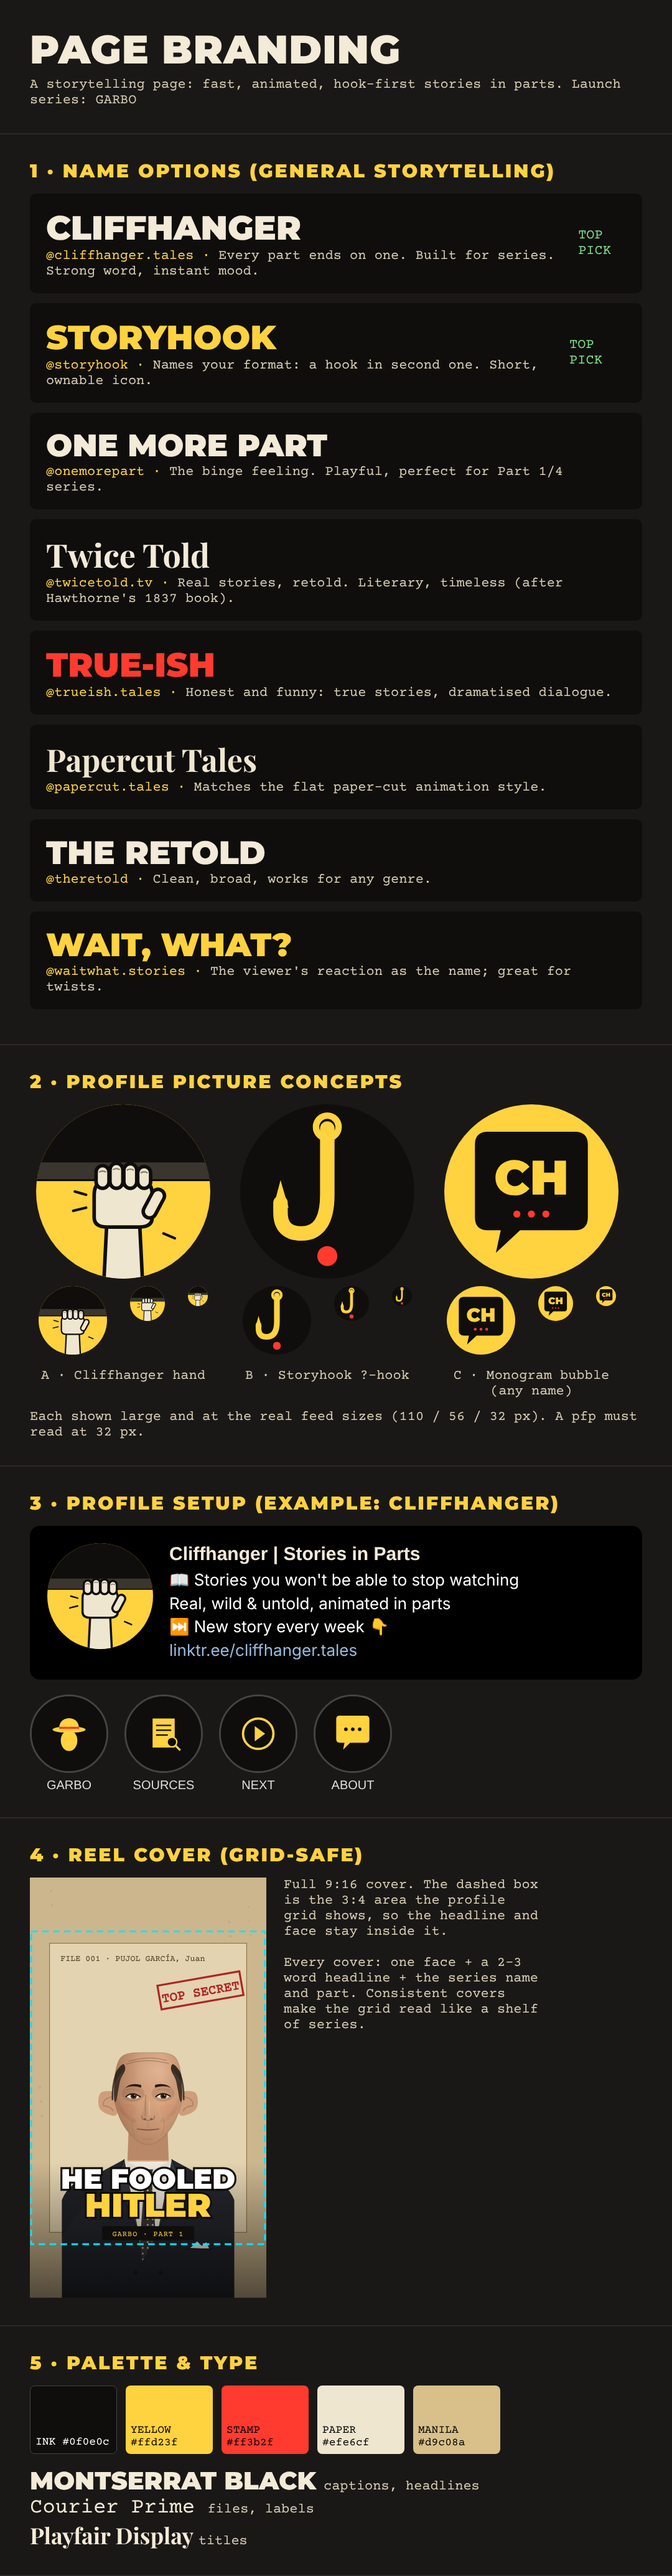
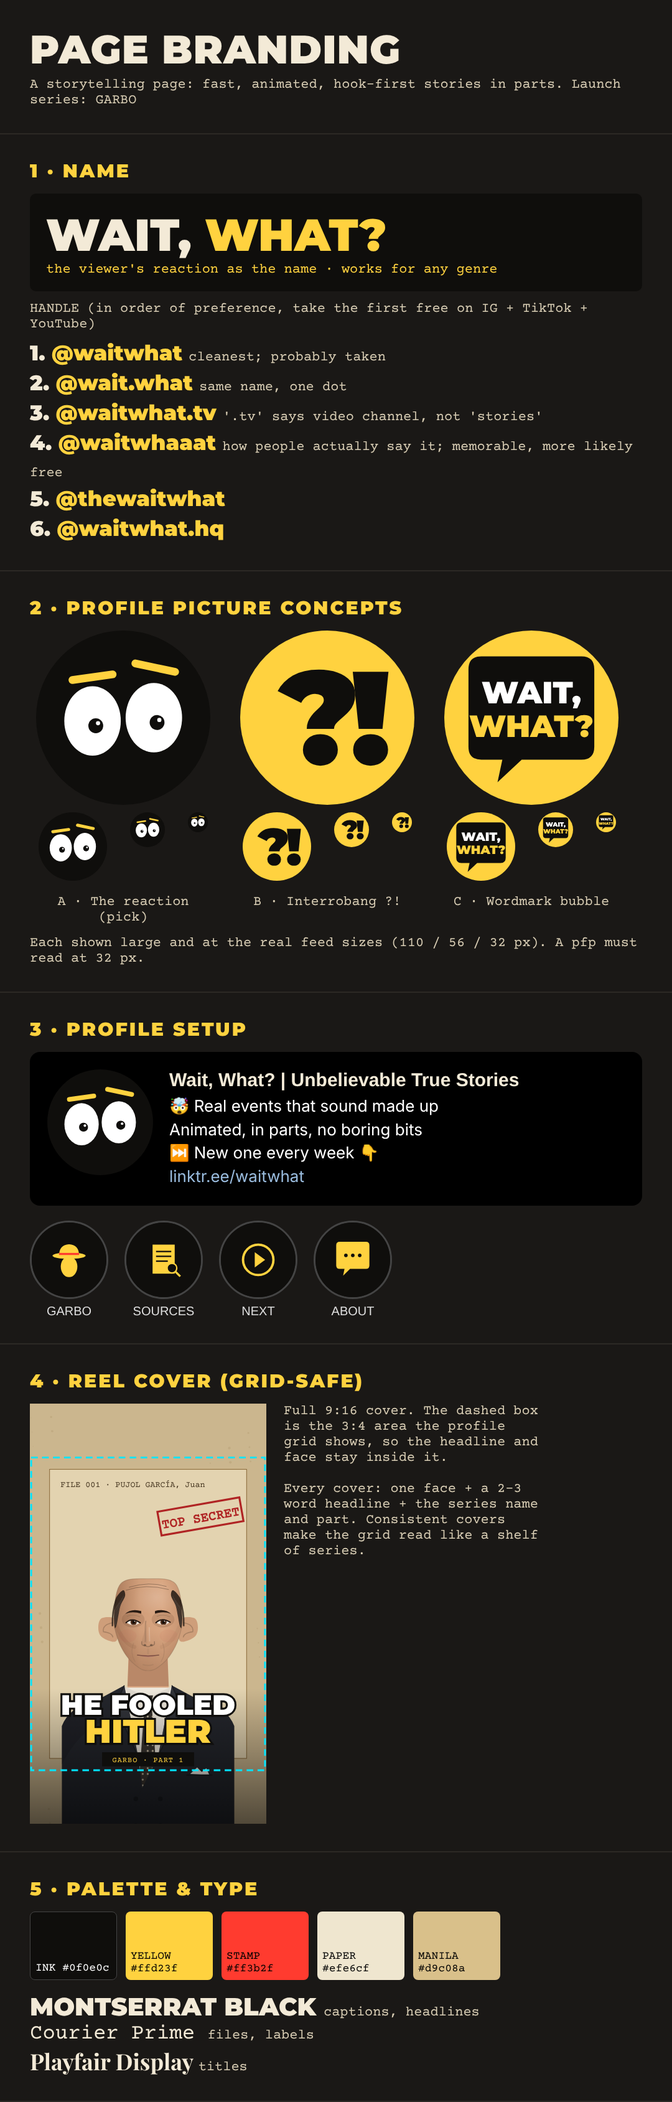
Branding v3: WAIT, WHAT?
- Handle options without 'stories' (@waitwhat, @wait.what, @waitwhat.tv,
  @waitwhaaat, @thewaitwhat, @waitwhat.hq)
- New pfp concepts built on the name: reaction eyes (pick), interrobang,
  wordmark bubble; bio and setup guide updated

Claude-Session: https://claude.ai/code/session_017ZvJXmgtdFrWXH2ng3gpYF

diff --git a/brand/board.html b/brand/board.html
@@ -20,24 +20,24 @@ h1{font:900 64px Montserrat;margin:0 0 6px;letter-spacing:1px} h2{font:900 30px 
 </style></head><body>
 <div class="sec"><h1>PAGE BRANDING</h1><div class="cap">A storytelling page: fast, animated, hook-first stories in parts. Launch series: GARBO</div></div>
 
-<div class="sec"><h2>1 · NAME OPTIONS (GENERAL STORYTELLING)</h2>
- <div class="name"><div><div style="font:900 54px Montserrat">CLIFFHANGER</div><div class="tag">@cliffhanger.tales · <span style="color:#d8cdb4">Every part ends on one. Built for series. Strong word, instant mood.</span></div></div><div class=tag style=color:#7ee08a>TOP PICK</div></div>
- <div class="name"><div><div style="font:900 54px Montserrat;color:var(--yellow)">STORYHOOK</div><div class="tag">@storyhook · <span style="color:#d8cdb4">Names your format: a hook in second one. Short, ownable icon.</span></div></div><div class=tag style=color:#7ee08a>TOP PICK</div></div>
- <div class="name"><div><div style="font:900 50px Montserrat">ONE MORE PART</div><div class="tag">@onemorepart · <span style="color:#d8cdb4">The binge feeling. Playful, perfect for Part 1/4 series.</span></div></div></div>
- <div class="name"><div><div style="font:700 52px 'Playfair Display'">Twice Told</div><div class="tag">@twicetold.tv · <span style="color:#d8cdb4">Real stories, retold. Literary, timeless (after Hawthorne's 1837 book).</span></div></div></div>
- <div class="name"><div><div style="font:900 54px Montserrat;color:var(--red)">TRUE-ISH</div><div class="tag">@trueish.tales · <span style="color:#d8cdb4">Honest and funny: true stories, dramatised dialogue.</span></div></div></div>
- <div class="name"><div><div style="font:700 50px 'Playfair Display';color:var(--paper)">Papercut Tales</div><div class="tag">@papercut.tales · <span style="color:#d8cdb4">Matches the flat paper-cut animation style.</span></div></div></div>
- <div class="name"><div><div style="font:900 52px Montserrat">THE RETOLD</div><div class="tag">@theretold · <span style="color:#d8cdb4">Clean, broad, works for any genre.</span></div></div></div>
- <div class="name"><div><div style="font:900 52px Montserrat;color:var(--yellow)">WAIT, WHAT?</div><div class="tag">@waitwhat.stories · <span style="color:#d8cdb4">The viewer's reaction as the name; great for twists.</span></div></div></div>
+<div class="sec"><h2>1 · NAME</h2>
+ <div class="name"><div><div style="font:900 72px Montserrat">WAIT, <span style="color:var(--yellow)">WHAT?</span></div><div class="tag">the viewer's reaction as the name · works for any genre</div></div></div>
+ <div class="cap" style="margin:10px 0 12px">HANDLE (in order of preference, take the first free on IG + TikTok + YouTube)</div>
+ <div style="font:900 34px Montserrat;margin:6px 0">1. <span style="color:var(--yellow)">@waitwhat</span> <span class="cap">cleanest; probably taken</span></div>
+ <div style="font:900 34px Montserrat;margin:6px 0">2. <span style="color:var(--yellow)">@wait.what</span> <span class="cap">same name, one dot</span></div>
+ <div style="font:900 34px Montserrat;margin:6px 0">3. <span style="color:var(--yellow)">@waitwhat.tv</span> <span class="cap">'.tv' says video channel, not 'stories'</span></div>
+ <div style="font:900 34px Montserrat;margin:6px 0">4. <span style="color:var(--yellow)">@waitwhaaat</span> <span class="cap">how people actually say it; memorable, more likely free</span></div>
+ <div style="font:900 34px Montserrat;margin:6px 0">5. <span style="color:var(--yellow)">@thewaitwhat</span> <span class="cap"></span></div>
+ <div style="font:900 34px Montserrat;margin:6px 0">6. <span style="color:var(--yellow)">@waitwhat.hq</span> <span class="cap"></span></div>
 </div>
 
 <div class="sec"><h2>2 · PROFILE PICTURE CONCEPTS</h2><div class="row" id="pfps"></div>
  <div class="cap" style="margin-top:16px">Each shown large and at the real feed sizes (110 / 56 / 32 px). A pfp must read at 32 px.</div></div>
 
-<div class="sec"><h2>3 · PROFILE SETUP (EXAMPLE: CLIFFHANGER)</h2>
+<div class="sec"><h2>3 · PROFILE SETUP</h2>
  <div class="profile"><div id="pfpMini"></div><div>
-  <div style="font:700 30px Arial;margin-bottom:6px">Cliffhanger | Stories in Parts</div>
-  <div class="bio">📖 Stories you won't be able to stop watching<br>Real, wild &amp; untold, animated in parts<br>⏭ New story every week 👇<br><span style="color:#9bd">linktr.ee/cliffhanger.tales</span></div>
+  <div style="font:700 30px Arial;margin-bottom:6px">Wait, What? | Unbelievable True Stories</div>
+  <div class="bio">🤯 Real events that sound made up<br>Animated, in parts, no boring bits<br>⏭ New one every week 👇<br><span style="color:#9bd">linktr.ee/waitwhat</span></div>
  </div></div>
  <div class="hl" style="margin-top:24px" id="hls"></div>
 </div>

diff --git a/brand/brand.js b/brand/brand.js
@@ -47,6 +47,35 @@
     return svg(1080, 1080, g, size);
   }
 
+
+  // ---- WAIT, WHAT? concepts ----
+  // A · interrobang: the name as one glyph
+  function pfpInterrobang(size) {
+    let g = `<rect width="1080" height="1080" fill="${Y}"/>`;
+    g += `<text x="560" y="830" text-anchor="middle" font-family="Montserrat" font-weight="900" font-size="820" fill="${INK}" letter-spacing="-60">?!</text>`;
+    g += `<circle cx="760" cy="300" r="0" fill="${RED}"/>`;
+    return svg(1080, 1080, g, size);
+  }
+  // B · the reaction: two wide eyes with tiny pupils and a raised brow
+  function pfpEyes(size) {
+    let g = `<rect width="1080" height="1080" fill="${INK}"/>`;
+    for (const [cx, dy, rot] of [[350, 0, -8], [730, -20, 12]]) {
+      g += `<ellipse cx="${cx}" cy="${560 + dy}" rx="175" ry="215" fill="#fff"/>`;
+      g += `<circle cx="${cx + 20}" cy="${590 + dy}" r="46" fill="${INK}"/>`;
+      g += `<circle cx="${cx + 34}" cy="${574 + dy}" r="13" fill="#fff"/>`;
+      g += `<rect x="${cx - 150}" y="${265 + dy - (cx > 500 ? 40 : 0)}" width="300" height="48" rx="24" fill="${Y}" transform="rotate(${rot} ${cx} ${290 + dy})"/>`;
+    }
+    return svg(1080, 1080, g, size);
+  }
+  // C · wordmark bubble
+  function pfpWordmark(size) {
+    let g = `<rect width="1080" height="1080" fill="${Y}"/>`;
+    g += `<path d="M150,240 Q150,160 230,160 L850,160 Q930,160 930,240 L930,720 Q930,800 850,800 L480,800 L330,940 L360,800 L230,800 Q150,800 150,720Z" fill="${INK}"/>`;
+    g += `<text x="540" y="450" text-anchor="middle" font-family="Montserrat" font-weight="900" font-size="190" fill="#fff">WAIT,</text>`;
+    g += `<text x="540" y="660" text-anchor="middle" font-family="Montserrat" font-weight="900" font-size="190" fill="${Y}">WHAT?</text>`;
+    return svg(1080, 1080, g, size);
+  }
+
   // Highlight covers: yellow icon on ink
   const ICONS = {
     'GARBO': `<ellipse cx="540" cy="640" rx="120" ry="150" fill="${Y}"/><ellipse cx="540" cy="480" rx="240" ry="46" fill="${Y}"/><path d="M395,485 Q395,320 540,315 Q685,320 685,485Z" fill="${Y}"/><rect x="395" y="440" width="290" height="30" fill="${RED}"/>`,
@@ -74,14 +103,14 @@
     return svg(1080, 1920, `<defs><linearGradient id="cv" x1="0" y1="0" x2="0" y2="1"><stop offset="0" stop-color="#000" stop-opacity="0"/><stop offset="1" stop-color="#000" stop-opacity="0.6"/></linearGradient></defs>${g}`, size);
   }
 
-  window.BRAND = { pfpCliff, pfpHook, pfpBubble, highlight, coverPart1, HIGHLIGHTS: Object.keys(ICONS) };
+  window.BRAND = { pfpCliff, pfpHook, pfpBubble, pfpInterrobang, pfpEyes, pfpWordmark, highlight, coverPart1, HIGHLIGHTS: Object.keys(ICONS) };
 
   // ---- fill the board if present ----
   const pf = document.getElementById('pfps');
   if (pf) {
-    const opts = [['A · Cliffhanger hand', pfpCliff], ['B · Storyhook ?-hook', pfpHook], ['C · Monogram bubble (any name)', pfpBubble]];
+    const opts = [['A · The reaction (pick)', pfpEyes], ['B · Interrobang ?!', pfpInterrobang], ['C · Wordmark bubble', pfpWordmark]];
     pf.innerHTML = opts.map(([label, fn]) => `<div class="pfp">${fn(280)}<div class="small">${fn(110)}${fn(56)}${fn(32)}</div><div class="cap">${label}</div></div>`).join('');
-    document.getElementById('pfpMini').innerHTML = pfpCliff(170).replace('<svg', '<svg style="border-radius:50%"');
+    document.getElementById('pfpMini').innerHTML = pfpEyes(170).replace('<svg', '<svg style="border-radius:50%"');
     document.getElementById('hls').innerHTML = BRAND.HIGHLIGHTS.map((n) => `<div>${highlight(n, 120)}${n}</div>`).join('');
     document.getElementById('cover').innerHTML = coverPart1(380, true);
   }

diff --git a/brand/export.js b/brand/export.js
@@ -9,7 +9,7 @@ const { chromium } = require('playwright'); const path = require('path'); const 
   await p.evaluate(() => { const s = document.createElement('script'); s.src = 'brand.js'; document.body.appendChild(s); });
   await p.waitForTimeout(500);
   await p.screenshot({ path: path.join(out, 'brand_board.png'), fullPage: true });
-  const assets = [['pfp_A_cliffhanger', 'BRAND.pfpCliff(1080)', 1080, 1080], ['pfp_B_storyhook', 'BRAND.pfpHook(1080)', 1080, 1080], ['pfp_C_monogram', 'BRAND.pfpBubble(1080)', 1080, 1080],
+  const assets = [['pfp_A_reaction', 'BRAND.pfpEyes(1080)', 1080, 1080], ['pfp_B_interrobang', 'BRAND.pfpInterrobang(1080)', 1080, 1080], ['pfp_C_wordmark', 'BRAND.pfpWordmark(1080)', 1080, 1080],
     ['cover_part1', 'BRAND.coverPart1(1080,false)', 1080, 1920]].concat(
     ['GARBO', 'SOURCES', 'NEXT', 'ABOUT'].map(n => [`highlight_${n.replace(' ', '').toLowerCase()}`, `BRAND.highlight(${JSON.stringify(n)},1080)`, 1080, 1080]));
   for (const [name, expr, w, h] of assets) {

diff --git a/brand/BRANDING.md b/brand/BRANDING.md
@@ -9,60 +9,62 @@ Visual board: `export/brand_board.png`. All assets: `export/`. Regenerate with
 
 ---
 
-## 1. Name
+## 1. Name: WAIT, WHAT?
 
-| Name | Handle idea | Why |
+Chosen. The viewer's reaction is the name: it promises a twist without tying the page to
+any genre or to the word "stories".
+
+**Handle**: take the first one free on Instagram, TikTok and YouTube (same everywhere):
+
+| # | Handle | Note |
 | --- | --- | --- |
-| **CLIFFHANGER** (top pick) | `@cliffhanger.tales` | Every part ends on one; the name *is* the format. A strong word with an instant mood. Icon: a hand gripping a ledge. |
-| **STORYHOOK** (top pick) | `@storyhook` | Names the promise: a hook in second one. Short, ownable; icon: a hook shaped like a "?". |
-| ONE MORE PART | `@onemorepart` | The binge feeling; playful and made for Part 1/4 series. |
-| Twice Told | `@twicetold.tv` | Real stories, retold. Literary and timeless (after Hawthorne's 1837 *Twice-Told Tales*). |
-| TRUE-ISH | `@trueish.tales` | Honest and funny: true stories, dramatised dialogue. |
-| Papercut Tales | `@papercut.tales` | Matches the flat paper-cut animation style. |
-| THE RETOLD | `@theretold` | Clean, broad, any genre. |
-| WAIT, WHAT? | `@waitwhat.stories` | The viewer's reaction as the name; great for twists. |
+| 1 | `@waitwhat` | Cleanest; probably taken |
+| 2 | `@wait.what` | Same name with a dot |
+| 3 | `@waitwhat.tv` | ".tv" signals a video channel, not "stories" |
+| 4 | `@waitwhaaat` | How people actually say it; memorable and more likely free |
+| 5 | `@thewaitwhat` | |
+| 6 | `@waitwhat.hq` | |
 
-No large channel with these exact names showed up in a web search, but handle availability
-must be checked directly on Instagram, TikTok and YouTube. Grab the same handle on all three.
+All six are valid on all three platforms (letters, dots, underscores; 30 characters max).
+Availability must be checked by hand.
 
 ## 2. Profile picture
 
-| Concept | Read at 32 px | Fits |
+| Concept | Read at 32 px | Notes |
 | --- | --- | --- |
-| A · Cliffhanger hand | Yes: cream hand gripping a black ledge on yellow | CLIFFHANGER, ONE MORE PART |
-| B · Storyhook ?-hook | Yes: yellow hook + red dot on ink | STORYHOOK, WAIT, WHAT? |
-| C · Monogram bubble | Yes: initials in a speech bubble with "…" | Any name (swap the letters) |
+| **A · The reaction** (pick) | Yes | Two wide eyes, tiny pupils, raised yellow brows on ink. A face is recognised fastest in a feed, and it *is* the "wait, what?" feeling. Can be animated as a 0.5 s blink sting at the end of every reel. |
+| B · Interrobang ?! | Yes | Pure type, very bold on yellow. |
+| C · Wordmark bubble | Borderline | The full name in a speech bubble; best for the YouTube banner. |
 
-All three use the video palette (ink, yellow, stamp red), so the page and the reels look
-like one brand.
+Files: `export/pfp_A_reaction.png` (1080×1080). Same palette as the video captions.
 
 ## 3. Bio
 
-**Instagram** (≤150 characters), example for CLIFFHANGER:
+**Instagram** (≤150 characters):
 
 ```
-📖 Stories you won't be able to stop watching
-Real, wild & untold, animated in parts
-⏭ New story every week 👇
+🤯 Real events that sound made up
+Animated, in parts, no boring bits
+⏭ New one every week 👇
 ```
 
-- Name field (searchable): `Cliffhanger | Stories in Parts`. Instagram search indexes the name field; put the keyword there.
+- Name field (searchable): `Wait, What? | Unbelievable True Stories`. Instagram search indexes the name field; put the keyword there. The handle stays free of "stories".
 - Category: *Digital creator* or *Entertainment website*.
 - Link: one link page (Linktree / Beacons) → YouTube, TikTok, "Sources for every file".
 
-**TikTok** (≤80 characters): `Wild true stories, animated in parts. New story every week ⏭`
+**TikTok** (≤80 characters): `Real events that sound made up. Animated, in parts. New one weekly ⏭`
 
 **YouTube** channel description:
-> Stories you won't be able to stop watching: real, wild and untold, told as fast
-> animated series in parts. Every story is based on real events; dialogue is
-> dramatised. Sources are in each video's description. New story every week.
+> Real events that sound made up, told as fast animated series in parts.
+> Every episode is based on real events; dialogue is dramatised. Sources are in
+> each video's description. New one every week.
 
 ## 4. Profile setup
 
 - **Story highlights** (covers in `export/highlight_*.png`): `GARBO` (one highlight per series) · `SOURCES` (the fact sheet: real vs dramatised) · `NEXT` (polls on which story is next) · `ABOUT`.
 - **Pinned posts** (pin 3): Part 1 (the hook), the best-performing part, and a 30 s "who was Garbo" trailer cut from Parts 1–4.
 - **Grid**: every reel gets a custom cover (template: `export/cover_part1.png`). Rules: one face, a 2–3 word headline in Montserrat Black, the series name + part. Keep everything inside the central 3:4 area (1080×1440) so the grid crop never cuts it.
-- **Series naming**: `GARBO · Part 1/4`. Once the name is final, the in-video badge can carry it too (for example `CLIFFHANGER · GARBO 1/4`).
+- **Series naming**: `GARBO · Part 1/4`. Once the name is final, the in-video badge can carry it too (for example `WAIT, WHAT? · GARBO 1/4`), and the reaction eyes can blink as a 0.5 s sting on the last frame.
 
 ## 5. Captions, hashtags, posting
 
